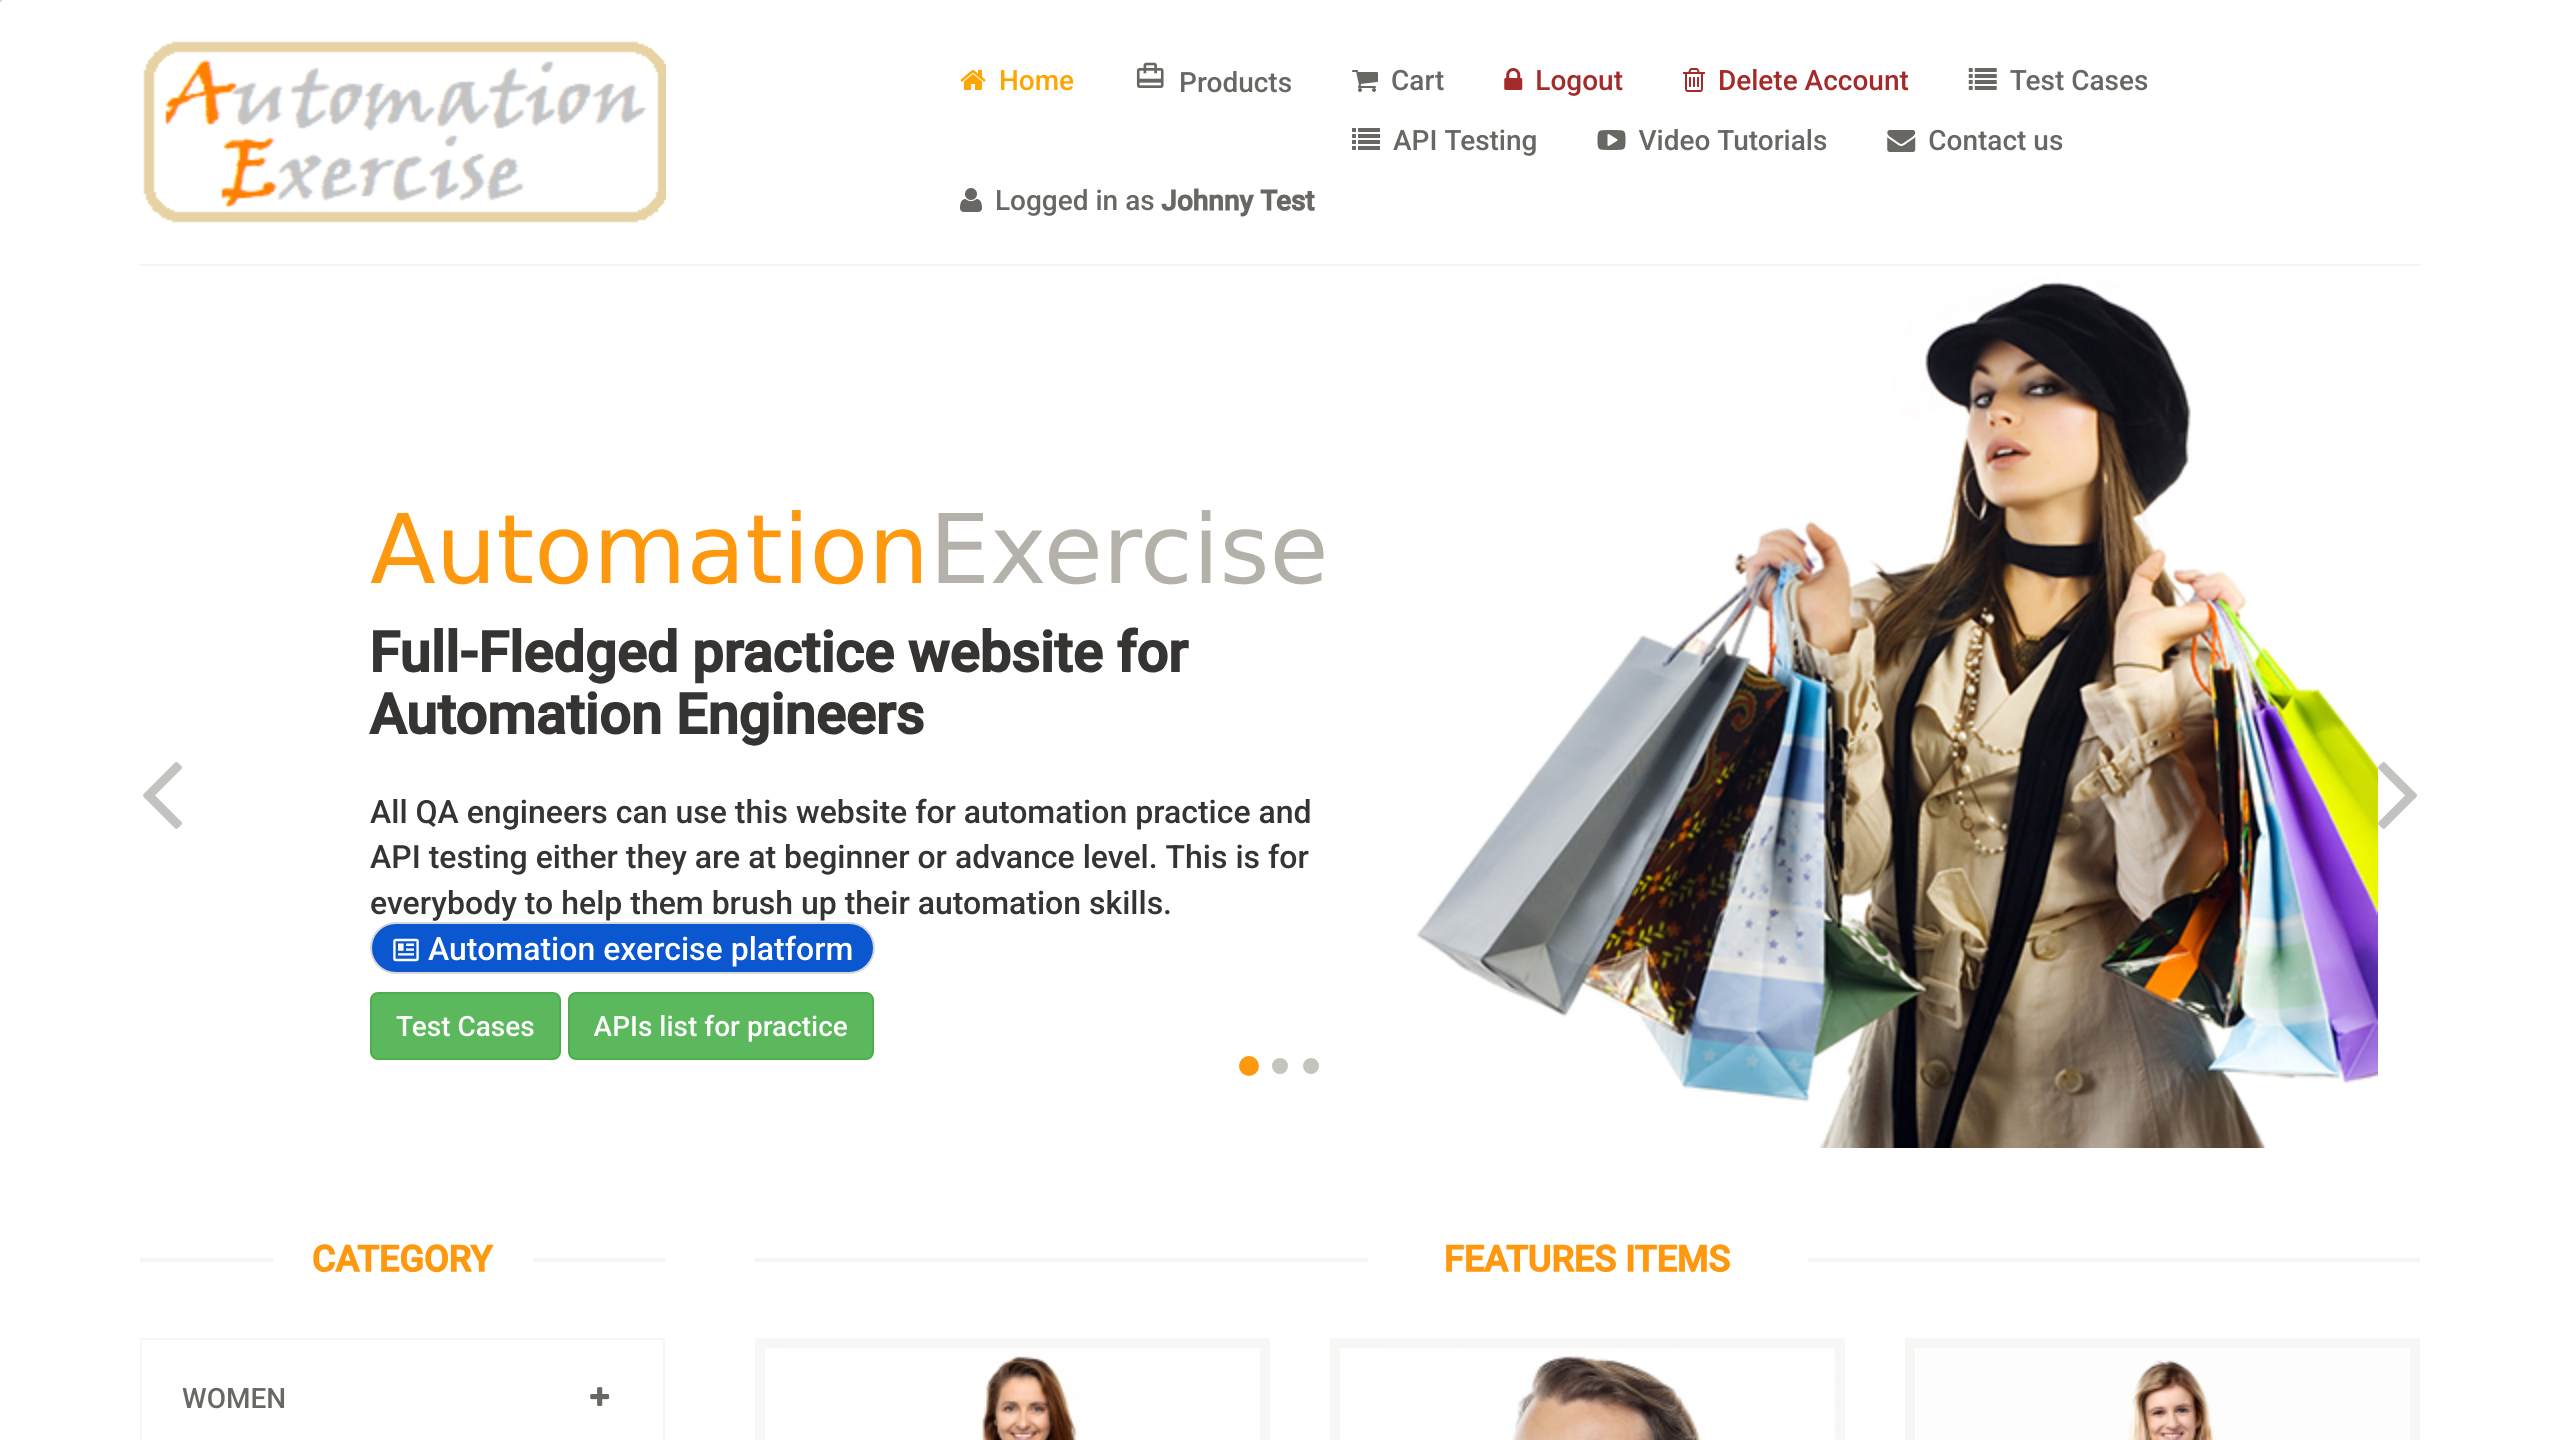
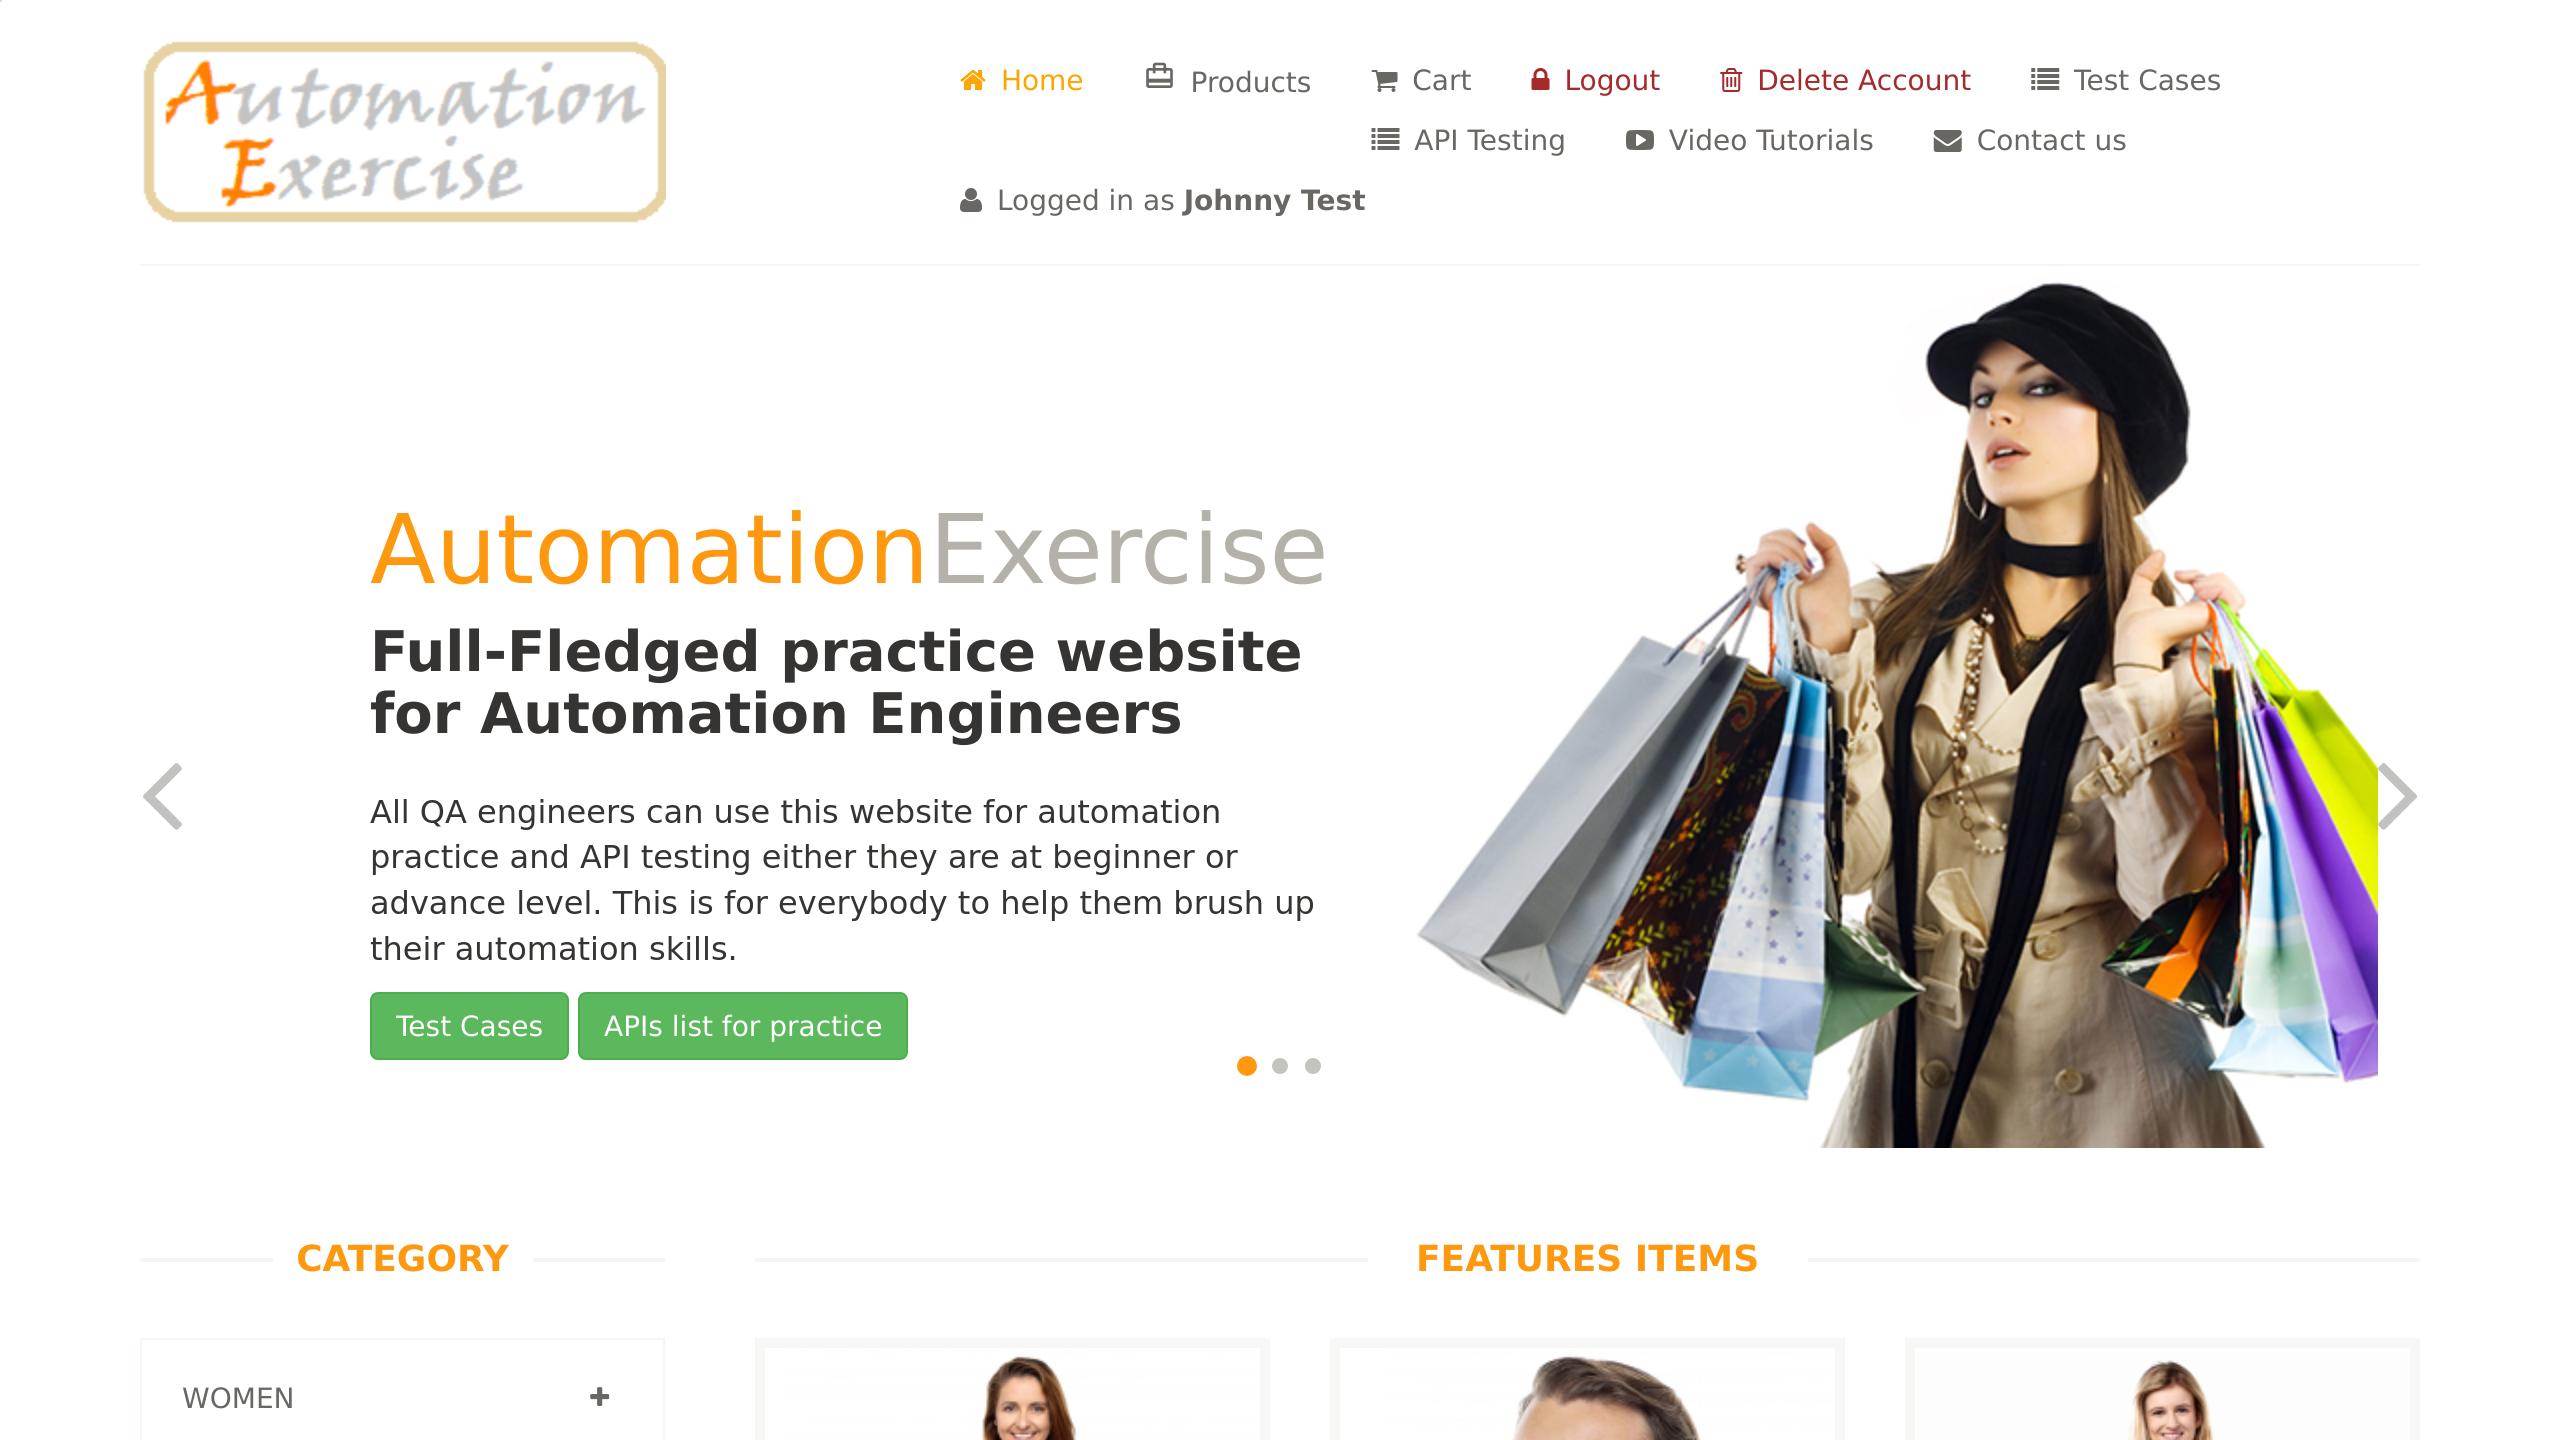
Fixing Product Details script

diff --git a/tests/products-details.spec.ts b/tests/products-details.spec.ts
@@ -11,7 +11,7 @@ test('Verify User can navigate to All products page and verify Product Details',
     await productspage.navigateToProducts();
 
     //Verify User is on ALL Products Page
-    await expect(page).toHaveURL('/products/');
+    await expect(page).toHaveURL('https://automationexercise.com/products');
 
     //Verify the products list is visible
     await expect (page.locator('.features_items')).toBeVisible();
@@ -20,7 +20,7 @@ test('Verify User can navigate to All products page and verify Product Details',
     await productspage.viewProductsDetails();
 
     //Verify User is on FIRST Products detail page
-    await expect(page).toHaveURL('/product_details/1/')
+    await expect(page).toHaveURL('https://automationexercise.com/product_details/1')
 
     //Verify the details page is visible
     await productspage.verifyProductDetails('Blue Top','Category: Women > Tops', 'Rs. 500');

diff --git a/pages/productsPage.ts b/pages/productsPage.ts
@@ -21,8 +21,12 @@ export class ProductsPage {
 
 
     async verifyProductDetails(Name : String, Category : String, Price : String){
-        await expect(this.page.locator('.newarrival')).toHaveText('' + Name);
-        await expect(this.page.locator('.newarrival')).toHaveText('' + Category);
-        await expect(this.page.locator('.newarrival')).toHaveText('' + Price);
+        const productInfo = this.page.locator('.product-information');
+
+        await expect(productInfo).toContainText(Name);
+        await expect(productInfo).toContainText(Category);
+        await expect(productInfo).toContainText(Price);
+ 
     }
+    
 }
